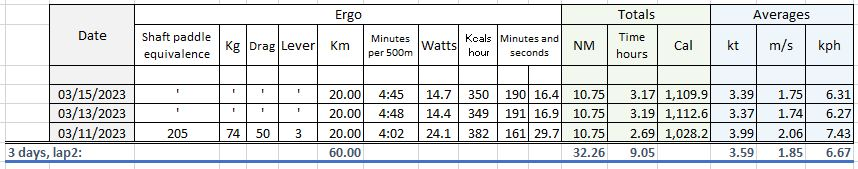
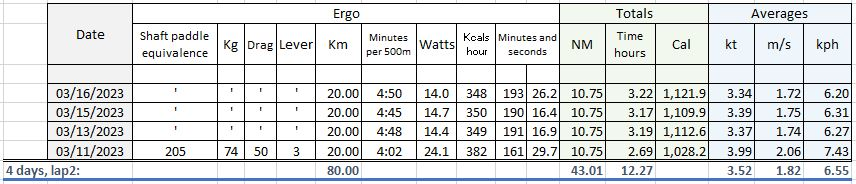
updates

diff --git a/dry-run/log/index.html b/dry-run/log/index.html
@@ -214,11 +214,11 @@ $(document).ready(function(){
 <p>This is not the actual trip. This is just training mapped on chart to have an idea of what the real thing might be.</p>
 </blockquote>
 <blockquote>
-<p>March 15, 2023, lap2</p>
+<p>March 16, 2023, lap2</p>
 </blockquote>
-<p><img src="/img/mar15.JPG" alt="March 15">
+<p><img src="/img/mar16.JPG" alt="March 16">
 <div style="text-align: center">
-1 day on ergo, 32 nautical miles, 60 Km, lap2
+1 day on ergo, 43 nautical miles, 80 Km, lap2
 </div>
 </p>
 <p><img src="/img/Stats2.JPG" alt="Stats">
